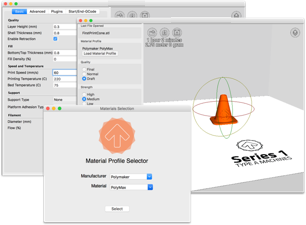
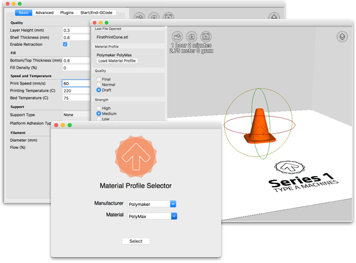
More configuration wizard text and image size edits.

diff --git a/Cura/gui/configWizard.py b/Cura/gui/configWizard.py
@@ -129,12 +129,11 @@ class InfoPage(wx.wizard.WizardPageSimple):
 		curaTAMLogo = resources.getPathForImage('TAMLogoAndText.png')
 		self.AddImage(curaTAMLogo)
 		self.AddTextTagLine('v1.4.0')
-		self.AddHiddenSeperator(1)
 		#	sizer.Add(wx.StaticLine(self, -1), pos=(1, 0), span=(1, 2), flag=wx.EXPAND | wx.ALL)
 
 	def AddHyperlink(self, text, url):
 		hyper1 = hl.HyperLinkCtrl(self, -1, text, URL=url)
-		font = wx.Font(pointSize=13, family = wx.DEFAULT,
+		font = wx.Font(pointSize=12, family = wx.DEFAULT,
                style = wx.NORMAL, weight = wx.LIGHT)
 		hyper1.SetFont(font)
 		self.GetSizer().Add(hyper1, pos=(self.rowNr,0), span=(1, 2), flag=wx.ALIGN_CENTER)
@@ -155,9 +154,9 @@ class InfoPage(wx.wizard.WizardPageSimple):
 	# Left-aligned text
 	def AddText(self, info):
 		text = wx.StaticText(self, -1, info, style=wx.ALIGN_LEFT)
-		font = wx.Font(pointSize=13, family = wx.DEFAULT, style=wx.NORMAL, weight=wx.LIGHT)
+		font = wx.Font(pointSize=12, family = wx.DEFAULT, style=wx.NORMAL, weight=wx.LIGHT)
 		text.SetFont(font)
-		text.Wrap(325)
+		text.Wrap(340)
 		self.GetSizer().Add(text, pos=(self.rowNr, 0), span=(1, 2), flag=wx.ALIGN_CENTER)
 		self.rowNr += 1
 		return text
@@ -165,18 +164,18 @@ class InfoPage(wx.wizard.WizardPageSimple):
 		# Center-aligned text
 	def AddCenteredText(self, info):
 		text = wx.StaticText(self, -1, info, style=wx.ALIGN_CENTER)
-		font = wx.Font(pointSize=13, family = wx.DEFAULT, style=wx.NORMAL, weight=wx.LIGHT)
+		font = wx.Font(pointSize=12, family = wx.DEFAULT, style=wx.NORMAL, weight=wx.LIGHT)
 		text.SetFont(font)
-		text.Wrap(325)
+		text.Wrap(340)
 		self.GetSizer().Add(text, pos=(self.rowNr, 0), span=(1, 2), flag=wx.ALIGN_CENTER)
 		self.rowNr += 1
 		return text
 
 	def AddTextTip(self,info):
 		text = wx.StaticText(self, -1, info)
-		font = wx.Font(pointSize=13, family = wx.DEFAULT, style=wx.NORMAL, weight=wx.NORMAL)
+		font = wx.Font(pointSize=12, family = wx.DEFAULT, style=wx.NORMAL, weight=wx.NORMAL)
 		text.SetFont(font)
-		text.Wrap(350)
+		text.Wrap(340)
 		self.GetSizer().Add(text, pos=(self.rowNr,0), span=(1, 2), flag=wx.ALIGN_CENTER)
 		self.rowNr += 1
 		return text
@@ -186,14 +185,14 @@ class InfoPage(wx.wizard.WizardPageSimple):
 		font = wx.Font(pointSize=15, family = wx.DEFAULT,
                style = wx.NORMAL, weight = wx.LIGHT)
 		text.SetFont(font)
-		text.Wrap(350)
-		self.GetSizer().Add(text, pos=(self.rowNr, 0), span=(1, 2), flag=wx.ALIGN_CENTER)
+		text.Wrap(340)
+		self.GetSizer().Add(text, pos=(self.rowNr, 0), span=(1, 2), flag=wx.ALIGN_CENTER | wx.BOTTOM, border=10)
 		self.rowNr += 1
 		return text
 		
 	def AddTextDescription(self, info):
 		text = wx.StaticText(self, -1, info, style=wx.ALIGN_LEFT)
-		font = wx.Font(pointSize=13, family = wx.DEFAULT,
+		font = wx.Font(pointSize=12, family = wx.DEFAULT,
                style = wx.NORMAL, weight = wx.NORMAL)
 		text.SetFont(font)
 		text.Wrap(300)
@@ -203,7 +202,7 @@ class InfoPage(wx.wizard.WizardPageSimple):
 		
 	def AddSeries1OptionsDescription(self, info):
 		text = wx.StaticText(self, -1, info, style=wx.ALIGN_LEFT)
-		font = wx.Font(pointSize=13, family = wx.DEFAULT,
+		font = wx.Font(pointSize=12, family = wx.DEFAULT,
                style = wx.NORMAL, weight = wx.NORMAL)
 		text.SetFont(font)
 		text.Wrap(300)
@@ -213,7 +212,7 @@ class InfoPage(wx.wizard.WizardPageSimple):
 
 	def AddTextLarge(self, info):
 		text = wx.StaticText(self, -1, info, style=wx.ALIGN_CENTER)
-		font = wx.Font(pointSize=13, family = wx.DEFAULT,
+		font = wx.Font(pointSize=12, family = wx.DEFAULT,
                style = wx.NORMAL, weight = wx.LIGHT)
 		text.SetFont(font)
 		text.Wrap(400)
@@ -223,16 +222,16 @@ class InfoPage(wx.wizard.WizardPageSimple):
 
 	def AddTextTitle(self, info):
 		text = wx.StaticText(self, -1, info, style=wx.ALIGN_CENTER)
-		font = wx.Font(pointSize=17, family = wx.DEFAULT, style = wx.NORMAL, weight = wx.NORMAL)
+		font = wx.Font(pointSize=14, family = wx.DEFAULT, style = wx.NORMAL, weight = wx.NORMAL)
 		text.SetFont(font)
-		text.Wrap(350)
+		text.Wrap(340)
 		self.GetSizer().Add(text, pos=(self.rowNr, 0), span=(1, 2), flag=wx.ALIGN_CENTER | wx.BOTTOM, border=7)
 		self.rowNr += 1
 		return text
 		
 	def AddErrorText(self, info, red=False):
 		text = wx.StaticText(self, -1, info, style=wx.ALIGN_LEFT)
-		font = wx.Font(pointSize=13, family = wx.DEFAULT,
+		font = wx.Font(pointSize=12, family = wx.DEFAULT,
                style = wx.NORMAL, weight = wx.NORMAL)
 		text.SetFont(font)
 		if red:
@@ -246,7 +245,7 @@ class InfoPage(wx.wizard.WizardPageSimple):
 		
 	def AddImage(self, imagePath):
 		image = wx.Image(imagePath, wx.BITMAP_TYPE_PNG).ConvertToBitmap()
-		self.GetSizer().Add(wx.StaticBitmap(self, -1, image), pos=(self.rowNr, 0), span=(1, 2), flag=wx.ALIGN_CENTER)
+		self.GetSizer().Add(wx.StaticBitmap(self, -1, image), pos=(self.rowNr, 0), span=(1, 2), flag=wx.LEFT| wx.RIGHT | wx.ALIGN_CENTER, border=30)
 		self.rowNr += 1
 		return image
 		
@@ -278,7 +277,7 @@ class InfoPage(wx.wizard.WizardPageSimple):
 			count = 1
 		for x in range(0, count):
 			spacer = self.AddText("")
-		spacer.SetFont(wx.Font(pointSize=13, family=wx.NORMAL, style=wx.NORMAL, weight=wx.NORMAL))
+		spacer.SetFont(wx.Font(pointSize=12, family=wx.NORMAL, style=wx.NORMAL, weight=wx.NORMAL))
 
 	def AddInfoBox(self):
 		infoBox = InfoBox(self)
@@ -288,7 +287,7 @@ class InfoPage(wx.wizard.WizardPageSimple):
 
 	def AddRadioButton(self, label, style=0):
 		radio = wx.RadioButton(self, -1, label, style=wx.ALIGN_LEFT)
-		font = wx.Font(pointSize=13, family = wx.DEFAULT, style = wx.NORMAL | wx.LEFT, weight=wx.NORMAL)
+		font = wx.Font(pointSize=12, family = wx.DEFAULT, style = wx.NORMAL | wx.LEFT, weight=wx.NORMAL)
 		radio.SetFont(font)
 		self.GetSizer().Add(radio, pos=(self.rowNr, 0), span=(1, 2), flag=wx.LEFT | wx.ALIGN_LEFT, border=130)
 		self.rowNr += 1
@@ -296,7 +295,7 @@ class InfoPage(wx.wizard.WizardPageSimple):
 		
 	def AddCheckbox(self, label, checked=False):
 		check = wx.CheckBox(self, -1, label)
-		font = wx.Font(pointSize=13, family = wx.DEFAULT, style = wx.NORMAL, weight = wx.NORMAL)
+		font = wx.Font(pointSize=12, family = wx.DEFAULT, style = wx.NORMAL, weight = wx.NORMAL)
 		check.SetFont(font)
 		check.SetValue(checked)
 		self.GetSizer().Add(check, pos=(self.rowNr, 0), span=(1, 2), flag=wx.ALIGN_CENTER)
@@ -305,7 +304,7 @@ class InfoPage(wx.wizard.WizardPageSimple):
 
 	def AddMachineOptionCheckbox(self, label, checked=False):
 		check = wx.CheckBox(self, -1, label)
-		font = wx.Font(pointSize=13, family = wx.DEFAULT, style = wx.NORMAL, weight = wx.NORMAL)
+		font = wx.Font(pointSize=12, family = wx.DEFAULT, style = wx.NORMAL, weight = wx.NORMAL)
 		check.SetFont(font)
 		check.SetValue(checked)
 		self.GetSizer().Add(check, pos=(self.rowNr, 0), span=(1, 2), flag=wx.ALIGN_CENTER | wx.RIGHT, border=150)
@@ -314,7 +313,7 @@ class InfoPage(wx.wizard.WizardPageSimple):
 
 	def AddButton(self, label):
 		button = wx.Button(self, -1, str(label))
-		font = wx.Font(pointSize=13, family = wx.DEFAULT, style = wx.NORMAL, weight = wx.NORMAL)
+		font = wx.Font(pointSize=12, family = wx.DEFAULT, style = wx.NORMAL, weight = wx.NORMAL)
 		button.SetFont(font)
 		self.GetSizer().Add(button, pos=(self.rowNr, 0), span=(1, 2), flag=wx.ALIGN_CENTER | wx.TOP | wx.BOTTOM, border = 5)
 		self.rowNr += 1
@@ -330,7 +329,7 @@ class InfoPage(wx.wizard.WizardPageSimple):
 
 	def AddTextCtrl(self, value):
 		ret = wx.TextCtrl(self, -1, value, size=(200, 25))
-		font = wx.Font(pointSize=13, family = wx.DEFAULT, style=wx.NORMAL, weight = wx.LIGHT)
+		font = wx.Font(pointSize=12, family = wx.DEFAULT, style=wx.NORMAL, weight = wx.LIGHT)
 		ret.SetFont(font)
 		self.GetSizer().Add(ret, pos=(self.rowNr, 0), span=(1, 2), flag=wx.ALIGN_CENTER)
 		self.rowNr += 1
@@ -339,10 +338,10 @@ class InfoPage(wx.wizard.WizardPageSimple):
 	def AddLabelTextCtrl(self, info, value):
 		text = wx.StaticText(self, -1, info)
 		ret = wx.TextCtrl(self, -1, value)
-		font = wx.Font(pointSize=13, family = wx.DEFAULT,
+		font = wx.Font(pointSize=12, family = wx.DEFAULT,
 		style = wx.NORMAL, weight = wx.LIGHT)
 		text.SetFont(font)
-		self.GetSizer().Add(text, pos=(self.rowNr, 0), span=(1, 1), flag=wx.ALIGN_RIGHT | wx.LEFT, border=90)
+		self.GetSizer().Add(text, pos=(self.rowNr, 0), span=(1, 1), flag=wx.ALIGN_RIGHT | wx.LEFT, border=50)
 		self.GetSizer().Add(ret, pos=(self.rowNr, 1), span=(1, 1), flag=wx.CENTER)
 		self.rowNr += 1
 		return ret
@@ -649,7 +648,6 @@ class TAMOctoPrintInfo(InfoPage):
 		self.parent = parent
 		self.configurationAttemptedOnce = False
 		self.inputCheck = printerConnect.InputValidation()
-		self.AddHiddenSeperator(1)
 		self.AddTextTitle("Enable Saving Directly to Series 1")	
 		apiTip = resources.getPathForImage('apiTip.png')
 		self.AddImage(apiTip)
@@ -805,7 +803,8 @@ class TAMFirstPrint(InfoPage):
 		self.AddImage(saveAndUploadImage)
 		gettingStarted = "Getting Started Page"
 		self.AddHiddenSeperator(1)
-		self.AddText("When you are ready to print, click the 'Save' or 'Upload' icon to save and start printing your 3D models.\n\nFor more info, visit our Getting Started page:")
+		self.AddText("When you are ready to print, click the 'Save' or 'Upload' icon to save and start printing your 3D models.")
+		self.AddCenteredText("For more information, visit our Getting Started page:")
 		self.AddHyperlink("typeamachines.com/gettingstarted", "typeamachines.com/gettingstarted")
 		
 class NonTAM(InfoPage):
@@ -1587,6 +1586,7 @@ class SelectParts(InfoPage):
 class ConfigWizard(wx.wizard.Wizard):
 	def __init__(self, addNew = False):
 		super(ConfigWizard, self).__init__(None, -1, _("Configuration Wizard"))
+		
 		
 		# Get the number of the current machine and label it as the old index
 		self._old_machine_index = int(profile.getPreferenceFloat('active_machine'))
